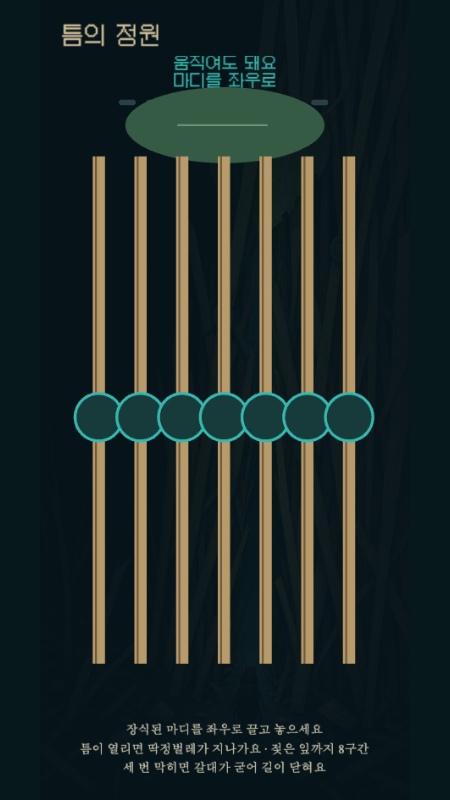
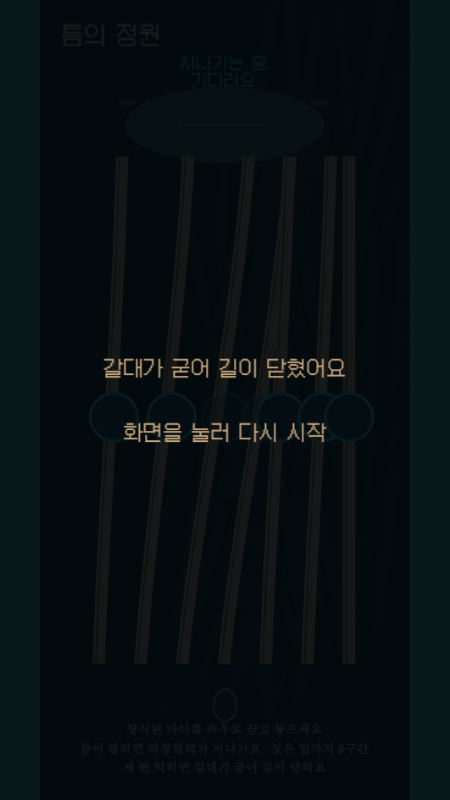
Fix portal asset resolution before lock

Changed region(s): [[0.1556, 0.0625, 0.84, 0.8438], [0.1867, 0.9062, 0.8089, 0.9688], [0.1244, 0.0312, 0.3733, 0.0625]]

diff --git a/src/game/GardenGame.ts b/src/game/GardenGame.ts
@@ -7,10 +7,12 @@ import { commit, createState, preview, type GardenState } from './gardenRules.mj
 const W=390,H=844, TEAL=0x35b8ad, STRAW=0xb89b6a, BG=0x06141a
 const ko=()=>new URLSearchParams(location.search).get('lang')!=='en' && !navigator.language.startsWith('en')
 export class GardenGame implements GameRuntime {
+ private readonly assetBase:string
  private app:Application|null=null; private state:GardenState=createState(); private cb:GameCallbacks|null=null
  private nodes:Graphics[]=[]; private reeds:Graphics[]=[]; private status:Text|null=null; private progress:Graphics|null=null
  private dragging=-1; private startX=0; private previewOffsets:number[]=[...this.state.offsets]; private passing=false
  private restartAt=0; private destroyed=false; private ro:ResizeObserver|null=null; private audio:AudioContext|null=null
+ constructor(assetBase=''){this.assetBase=assetBase}
  async mount(container:HTMLElement, cb:GameCallbacks){
   this.cb=cb; const app=new Application(); await app.init({width:W,height:H,backgroundColor:BG,antialias:true,resolution:Math.min(devicePixelRatio||1,3)*1.12,autoDensity:true})
   if(this.destroyed){app.destroy(true,{children:true});return} this.app=app; container.appendChild(app.canvas)
@@ -23,7 +25,7 @@ export class GardenGame implements GameRuntime {
  }
  private async drawBackdrop(){
   if(!this.app)return
-  try{const tex=await Assets.load<Texture>('/art/title-key.png');const sp=new Sprite(tex);sp.width=W;sp.height=H;sp.alpha=.17;this.app.stage.addChild(sp)}catch{}
+  try{const base=this.assetBase.replace(/\/?$/,'/');const tex=await Assets.load<Texture>(`${base}art/title-key.png`);const sp=new Sprite(tex);sp.width=W;sp.height=H;sp.alpha=.17;this.app.stage.addChild(sp)}catch{}
   const shade=new Graphics().rect(0,0,W,H).fill({color:BG,alpha:.55});this.app.stage.addChild(shade)
  }
  private drawScene(){

diff --git a/src/arcadeEntry.ts b/src/arcadeEntry.ts
@@ -41,7 +41,8 @@ export function mountGame(options: Options) {
     host.className = 'game-host'
     shell.appendChild(host)
     options.root.appendChild(shell)
-    const game = new GardenGame()
+    const runtimeAssetBase = options.assetBaseUrl === '/' ? new URL('./', import.meta.url).href : options.assetBaseUrl
+    const game = new GardenGame(runtimeAssetBase)
     void game.mount(host, {
         onGameOver: (result) => emit('ended', { runId: String(run), result }),
     }).then(() => {

diff --git a/DAY.md b/DAY.md
@@ -27,3 +27,7 @@
 - 제작 코드 완료, 잠금·WHY·공개 작업은 수행하지 않음.
 - 목표 화면과 실제 화면의 의도적 차이: 생성 목표의 사실적 다발 수를 줄이고 일곱 개 굵은 관절 갈대로 단순화해 움직임과 잡기점을 더 읽기 쉽게 했다.
 - 남은 위험: 자동 검증은 마디 제스처와 실패/재시작 경로를 실제 브라우저에서 확인했지만, 2–3분 완주를 독립 사람이 반복 플레이한 분포는 아직 없다. 기존 lockfile 설치 감사에서 48개 취약점(critical 4/high 24)이 보고됐고 Sonatype 연결은 인증 토큰 부재로 확인하지 못했다.
+
+## 잠금 전 포털 수정
+
+첫 잠금 시 제작 검증 안내에 없던 포털 CSP 증거가 요구되었다. `npm run build:arcade && npm run csp`의 첫 실행은 런타임이 `/art/title-key.png`를 직접 읽어 포털의 불변 자산 경로를 놓쳤고 404 한 건으로 실패했다. 아케이드 엔트리가 전달받은 `assetBaseUrl`을 게임 런타임까지 넘기고, CSP 하네스의 `/` 값은 엔트리 모듈 기준 URL로 해석하도록 고쳤다. 이후 테스트 24/24, TypeScript, 웹/아케이드 빌드, puzzle 시뮬레이션, smoke, 뷰포트, CSP를 모두 다시 실행했으며 CSP 위반·누락·콘솔 오류는 각각 0이었다. 증거는 `verification/csp-portal-result.json`과 `verification/csp-portal-play.png`에 남겼다.
